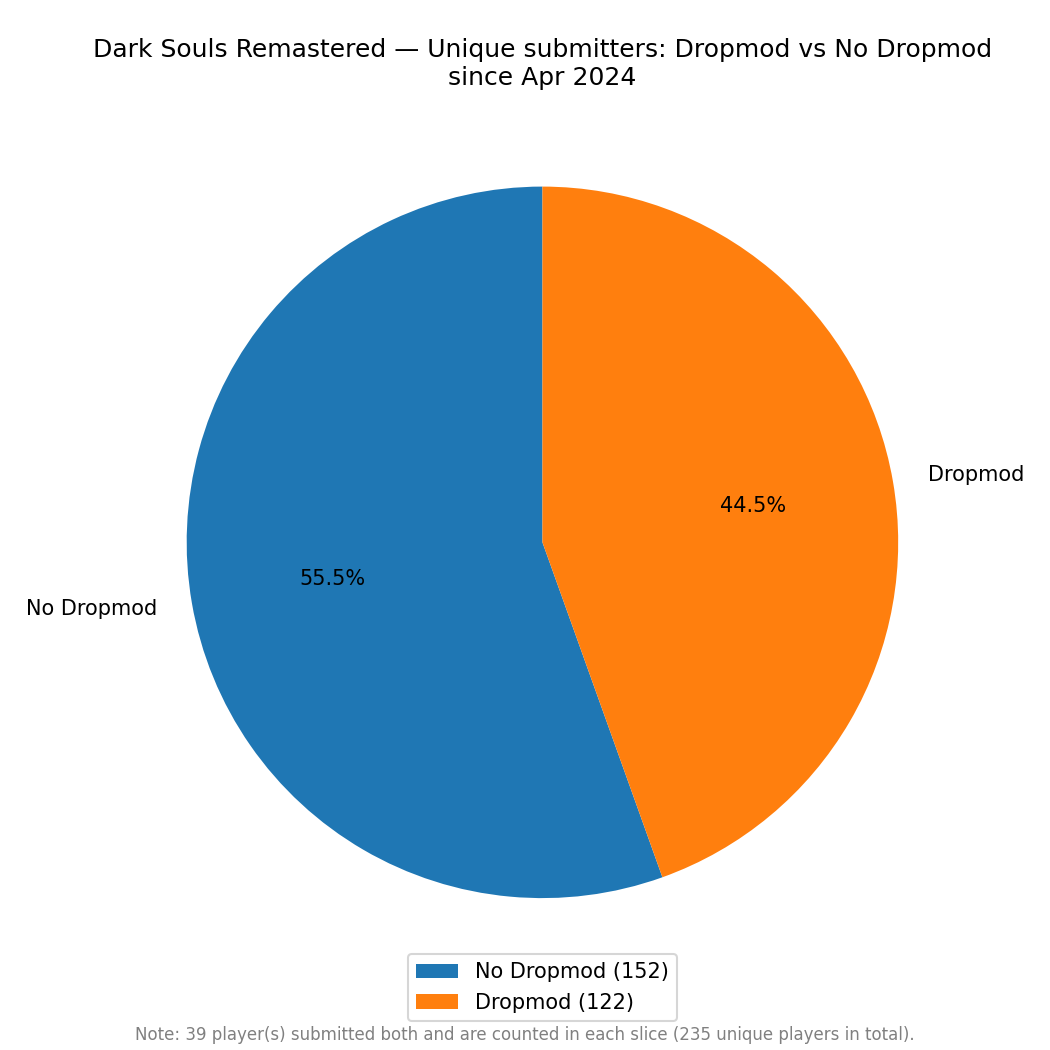
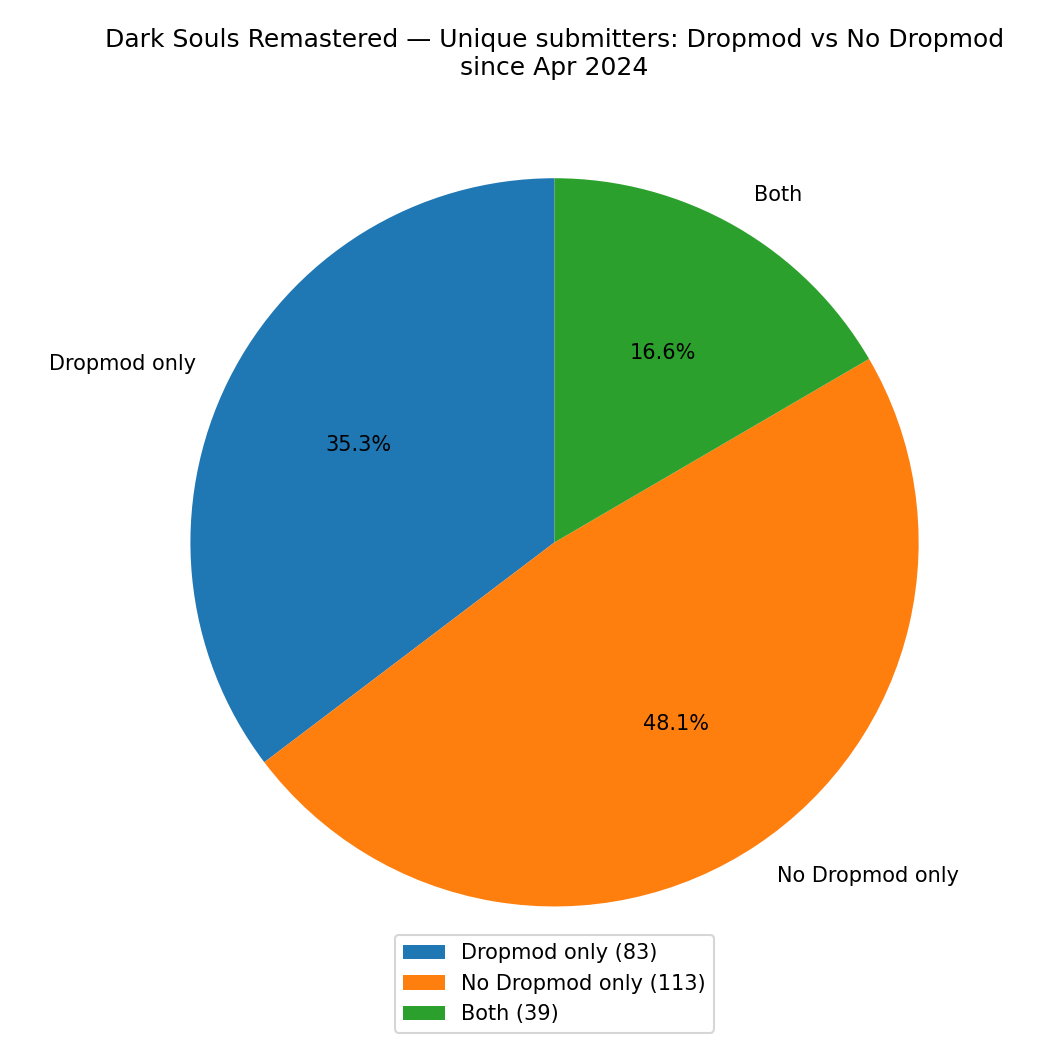
Pie chart: split into Dropmod only, No Dropmod only, Both
Replaces the two-slice pie (with overlap note) with a proper three-slice
chart that cleanly separates exclusive Dropmod, exclusive No Dropmod,
and players who submitted both.

diff --git a/main.py b/main.py
@@ -377,26 +377,22 @@ def plot_submitter_pie(
     if not players_by_label:
         return
 
-    labels = list(players_by_label.keys())
-    sizes = [len(players_by_label[l]) for l in labels]
-    legend_labels = [f"{l} ({len(players_by_label[l])})" for l in labels]
+    dropmod = players_by_label.get("Dropmod", set())
+    no_dropmod = players_by_label.get("No Dropmod", set())
+    slices = [
+        ("Dropmod only",    len(dropmod - no_dropmod)),
+        ("No Dropmod only", len(no_dropmod - dropmod)),
+        ("Both",            len(dropmod & no_dropmod)),
+    ]
+    labels = [s[0] for s in slices]
+    sizes  = [s[1] for s in slices]
+    legend_labels = [f"{l} ({n})" for l, n in slices]
 
-    all_sets = list(players_by_label.values())
-    both = len(all_sets[0] & all_sets[1]) if len(all_sets) == 2 else 0
-    total_unique = len(set.union(*all_sets))
-
+    since = bins[0][0].strftime("%b %Y")
     fig, ax = plt.subplots(figsize=(7, 7))
     ax.pie(sizes, labels=labels, autopct="%1.1f%%", startangle=90)
-    since = bins[0][0].strftime("%b %Y")
     ax.set_title(f"{game_name} — Unique submitters: Dropmod vs No Dropmod\nsince {since}")
     ax.legend(legend_labels, loc="lower center", bbox_to_anchor=(0.5, -0.05))
-    if both:
-        fig.text(
-            0.5, 0.01,
-            f"Note: {both} player(s) submitted both and are counted in each slice "
-            f"({total_unique} unique players in total).",
-            ha="center", fontsize=8, color="gray",
-        )
 
     PLOTS_DIR.mkdir(exist_ok=True)
     slug = re.sub(r"[^a-z0-9]+", "_", ax.get_title().lower()).strip("_")
